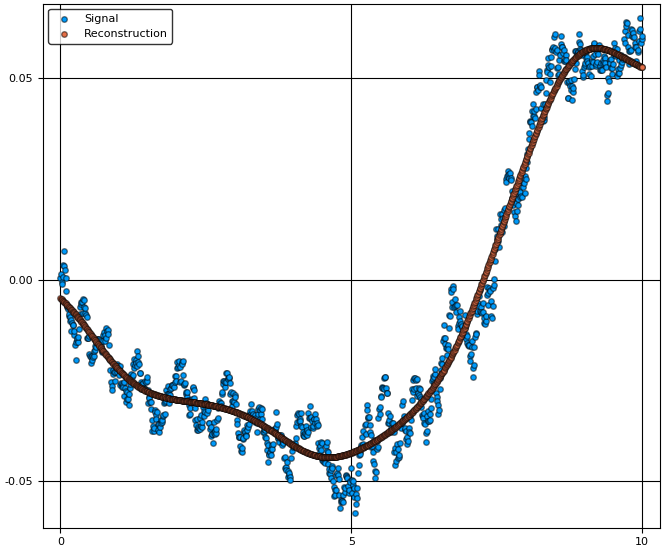
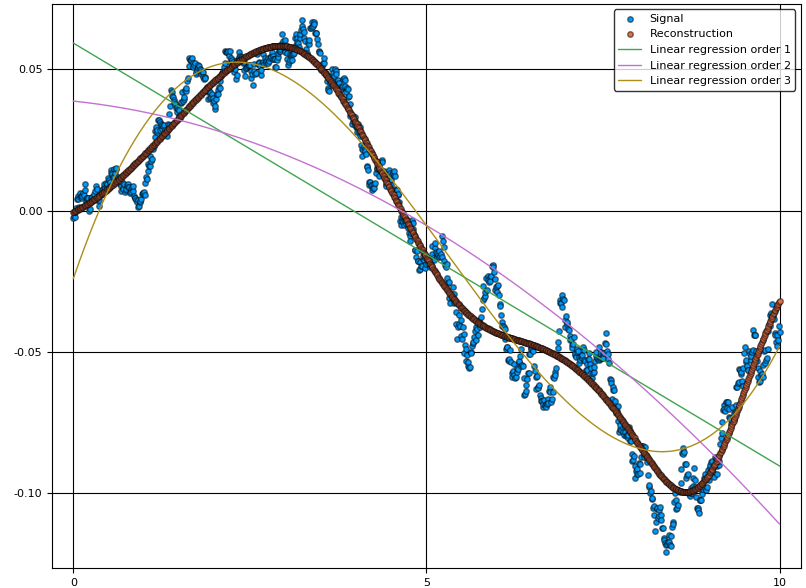
Add linreg to readme

Changed region(s): [[0.0, 0.0, 1.0, 1.0], [0.0, 0.8718, 0.1205, 0.9029], [0.512, 0.0934, 0.5422, 0.1557]]

diff --git a/README.md b/README.md
@@ -4,7 +4,7 @@
 
 A Julia toolbox for approximation of functions using basis function expansions (BFEs).
 
- BFEs are useful when one wants to estimate an arbitrary/unknown/complicated functional relationship between (in the simple case) two variables, `y` and `v`. In simple linear regression, we might consider a functional relationship `y = ϕ(v) = αv + β`, with parameters `α` and `β`. However, if the function `ϕ` has an arbitrary nonlinar form, it might be hard to come up with suitable basis functions to use for linear regression. This package provides a set of convenient methods to estimate `ϕ(v)` as a linear combination of basis functions, such as radial basis functions, for situations where `v` have a single or multiple dimensions.
+ BFEs are useful when one wants to estimate an arbitrary/unknown/complicated functional relationship between (in the simple case) two variables, `y` and `v`. In simple linear regression, we might consider a functional relationship `y = ϕ(v) = αv + β`, with parameters `α` and `β`. However, if the function `ϕ` has an arbitrary nonlinar form, it might be hard to come up with suitable basis functions to use for linear regression. This package provides a set of convenient methods to estimate `ϕ(v)` as a linear combination of basis functions, such as radial basis functions, for situations where `v` has a single or multiple dimensions.
 
 Currently supported basis functions are
 * Uniform Radial Basis Functions (Gaussian with diagonal covariance matrix)
@@ -40,6 +40,15 @@ ŷ = bfa(v) # Reconstruct signal using approximation object
 scatter(v,y, lab="Signal")
 scatter!(v,ŷ, lab="Reconstruction")
 ```
+
+For comparison, we can also plot the regular linear regression `y = β + α₁x + α₂x²... αₙx^n` for varying orders of `n`.
+
+```julia
+A = v.^(0:3)'
+ŷ_linreg = [A[:,1:i]*(A[:,1:i]\y) for i=2:4]
+plot!(v,hcat(ŷ_linreg...), lab=["Linear regression order $i" for i=1:3]')
+```
+
 ![window](figs/onedim.png)
 
 ## Multiple dimensions
